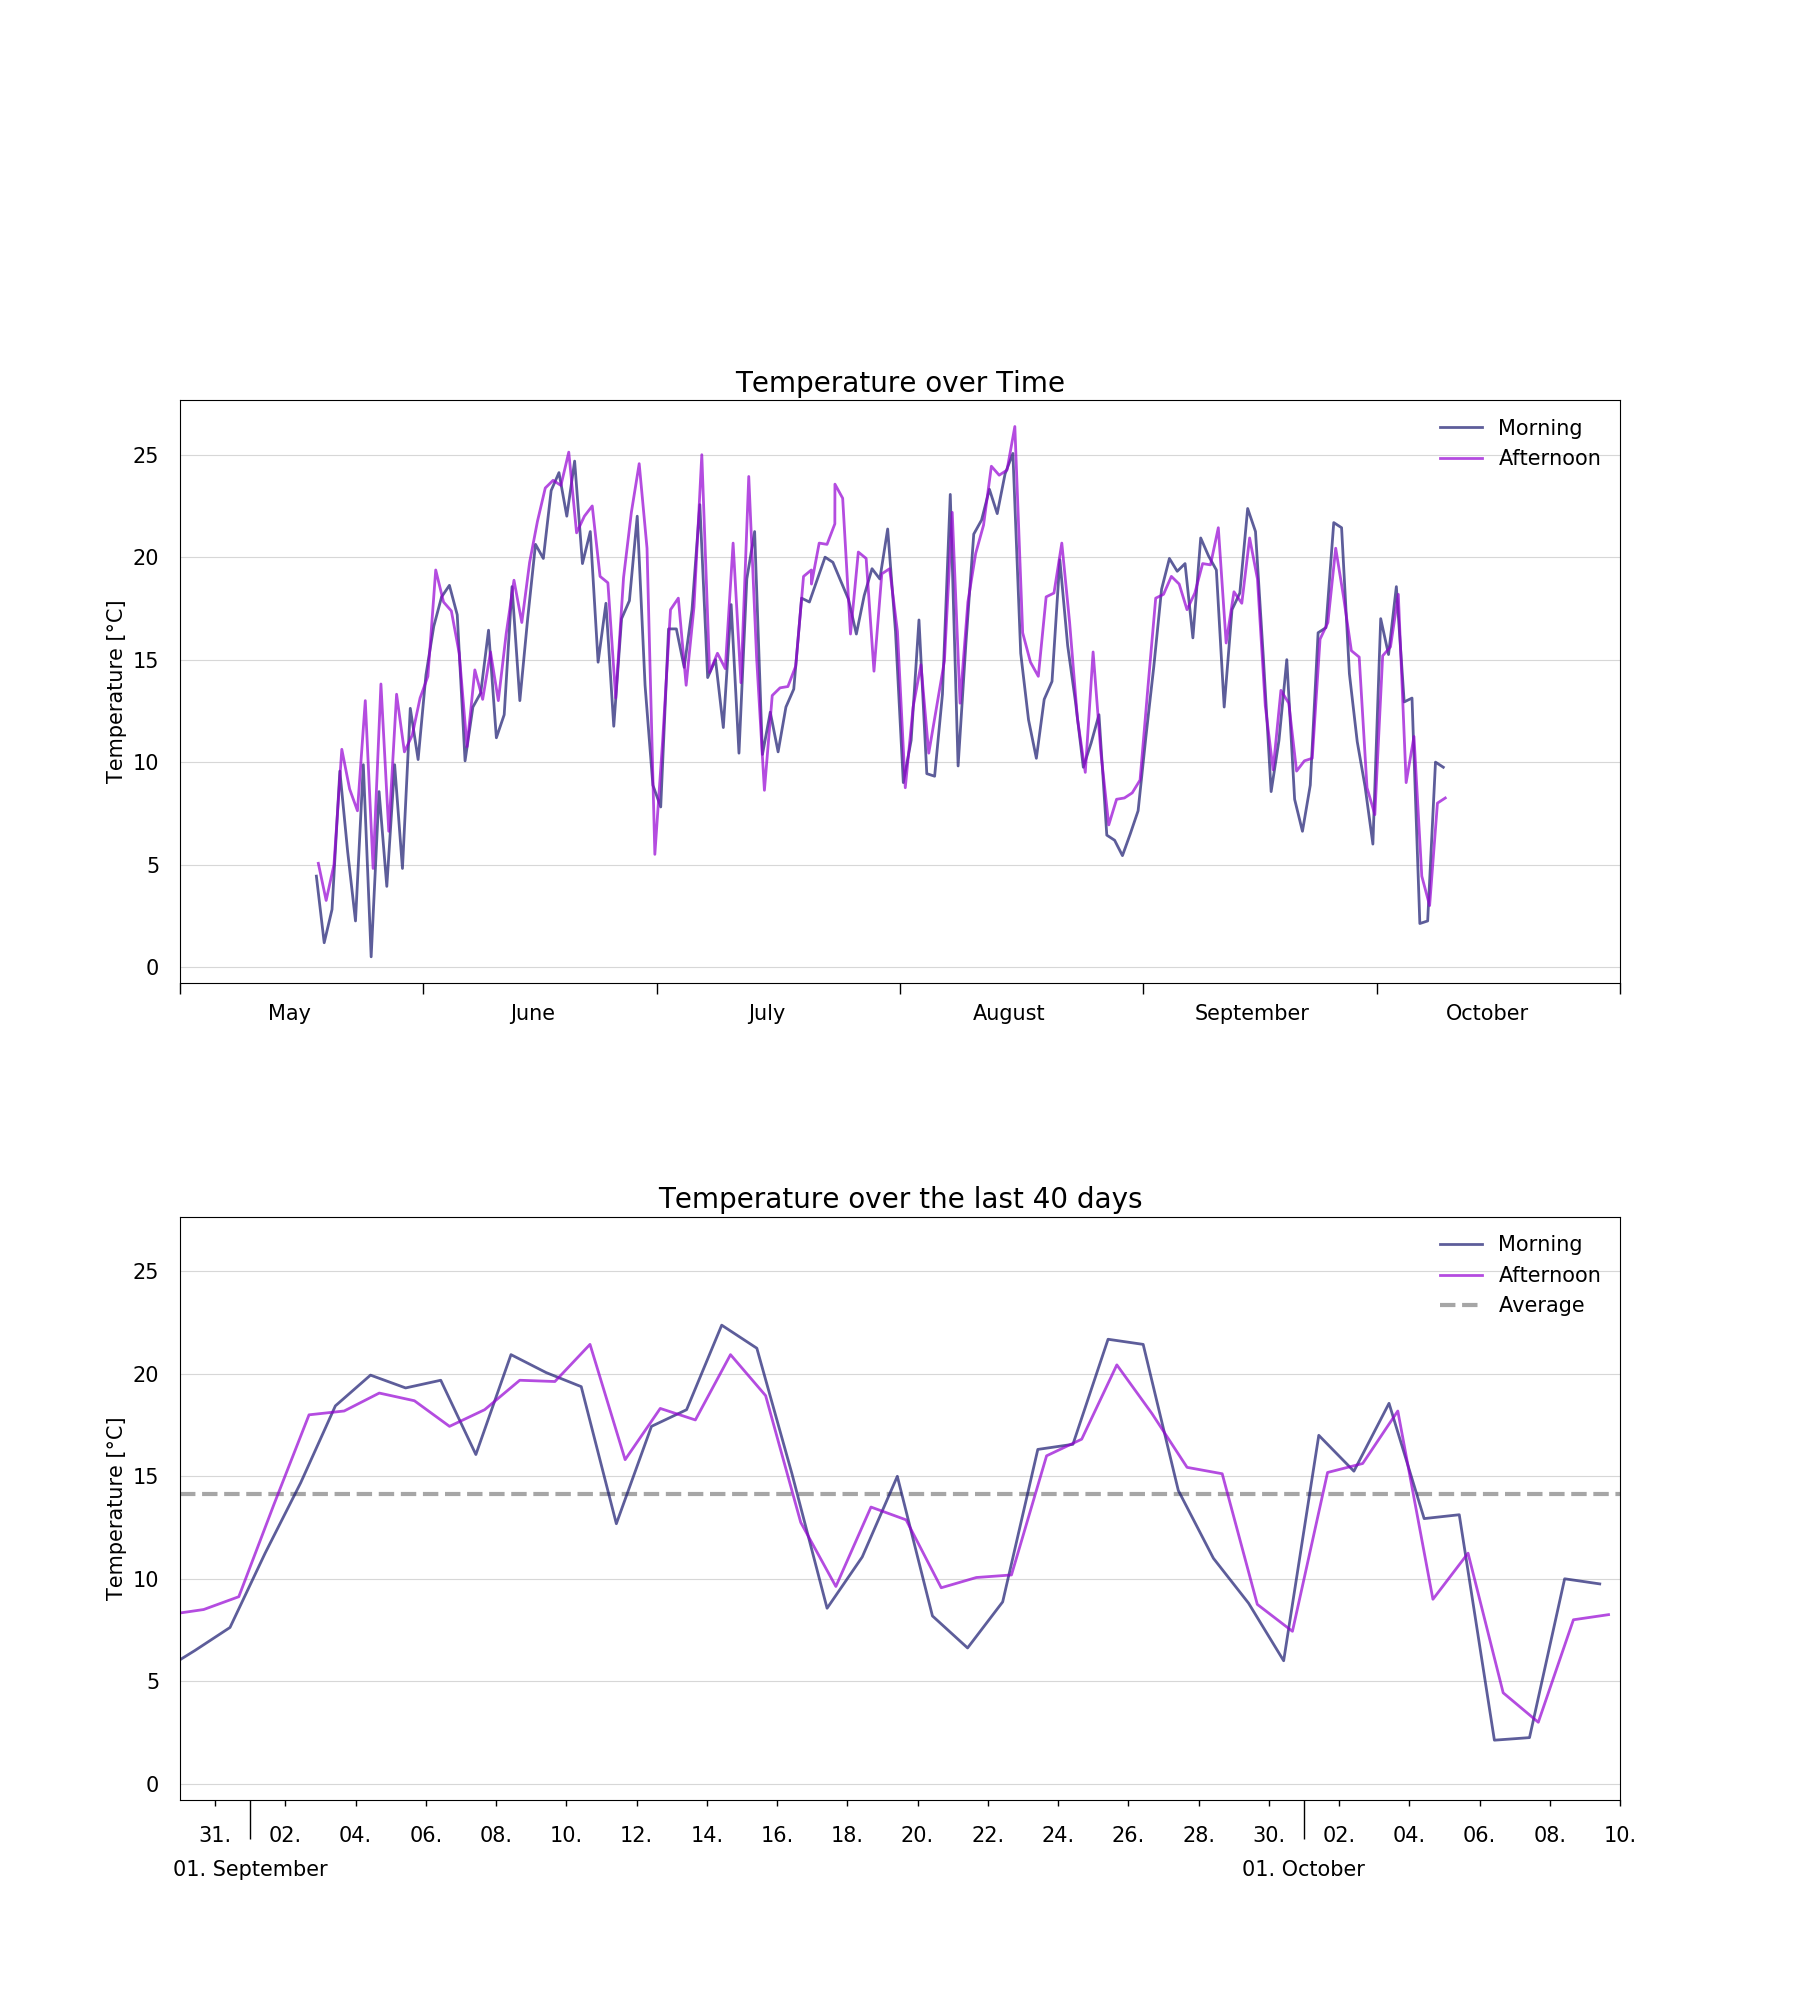
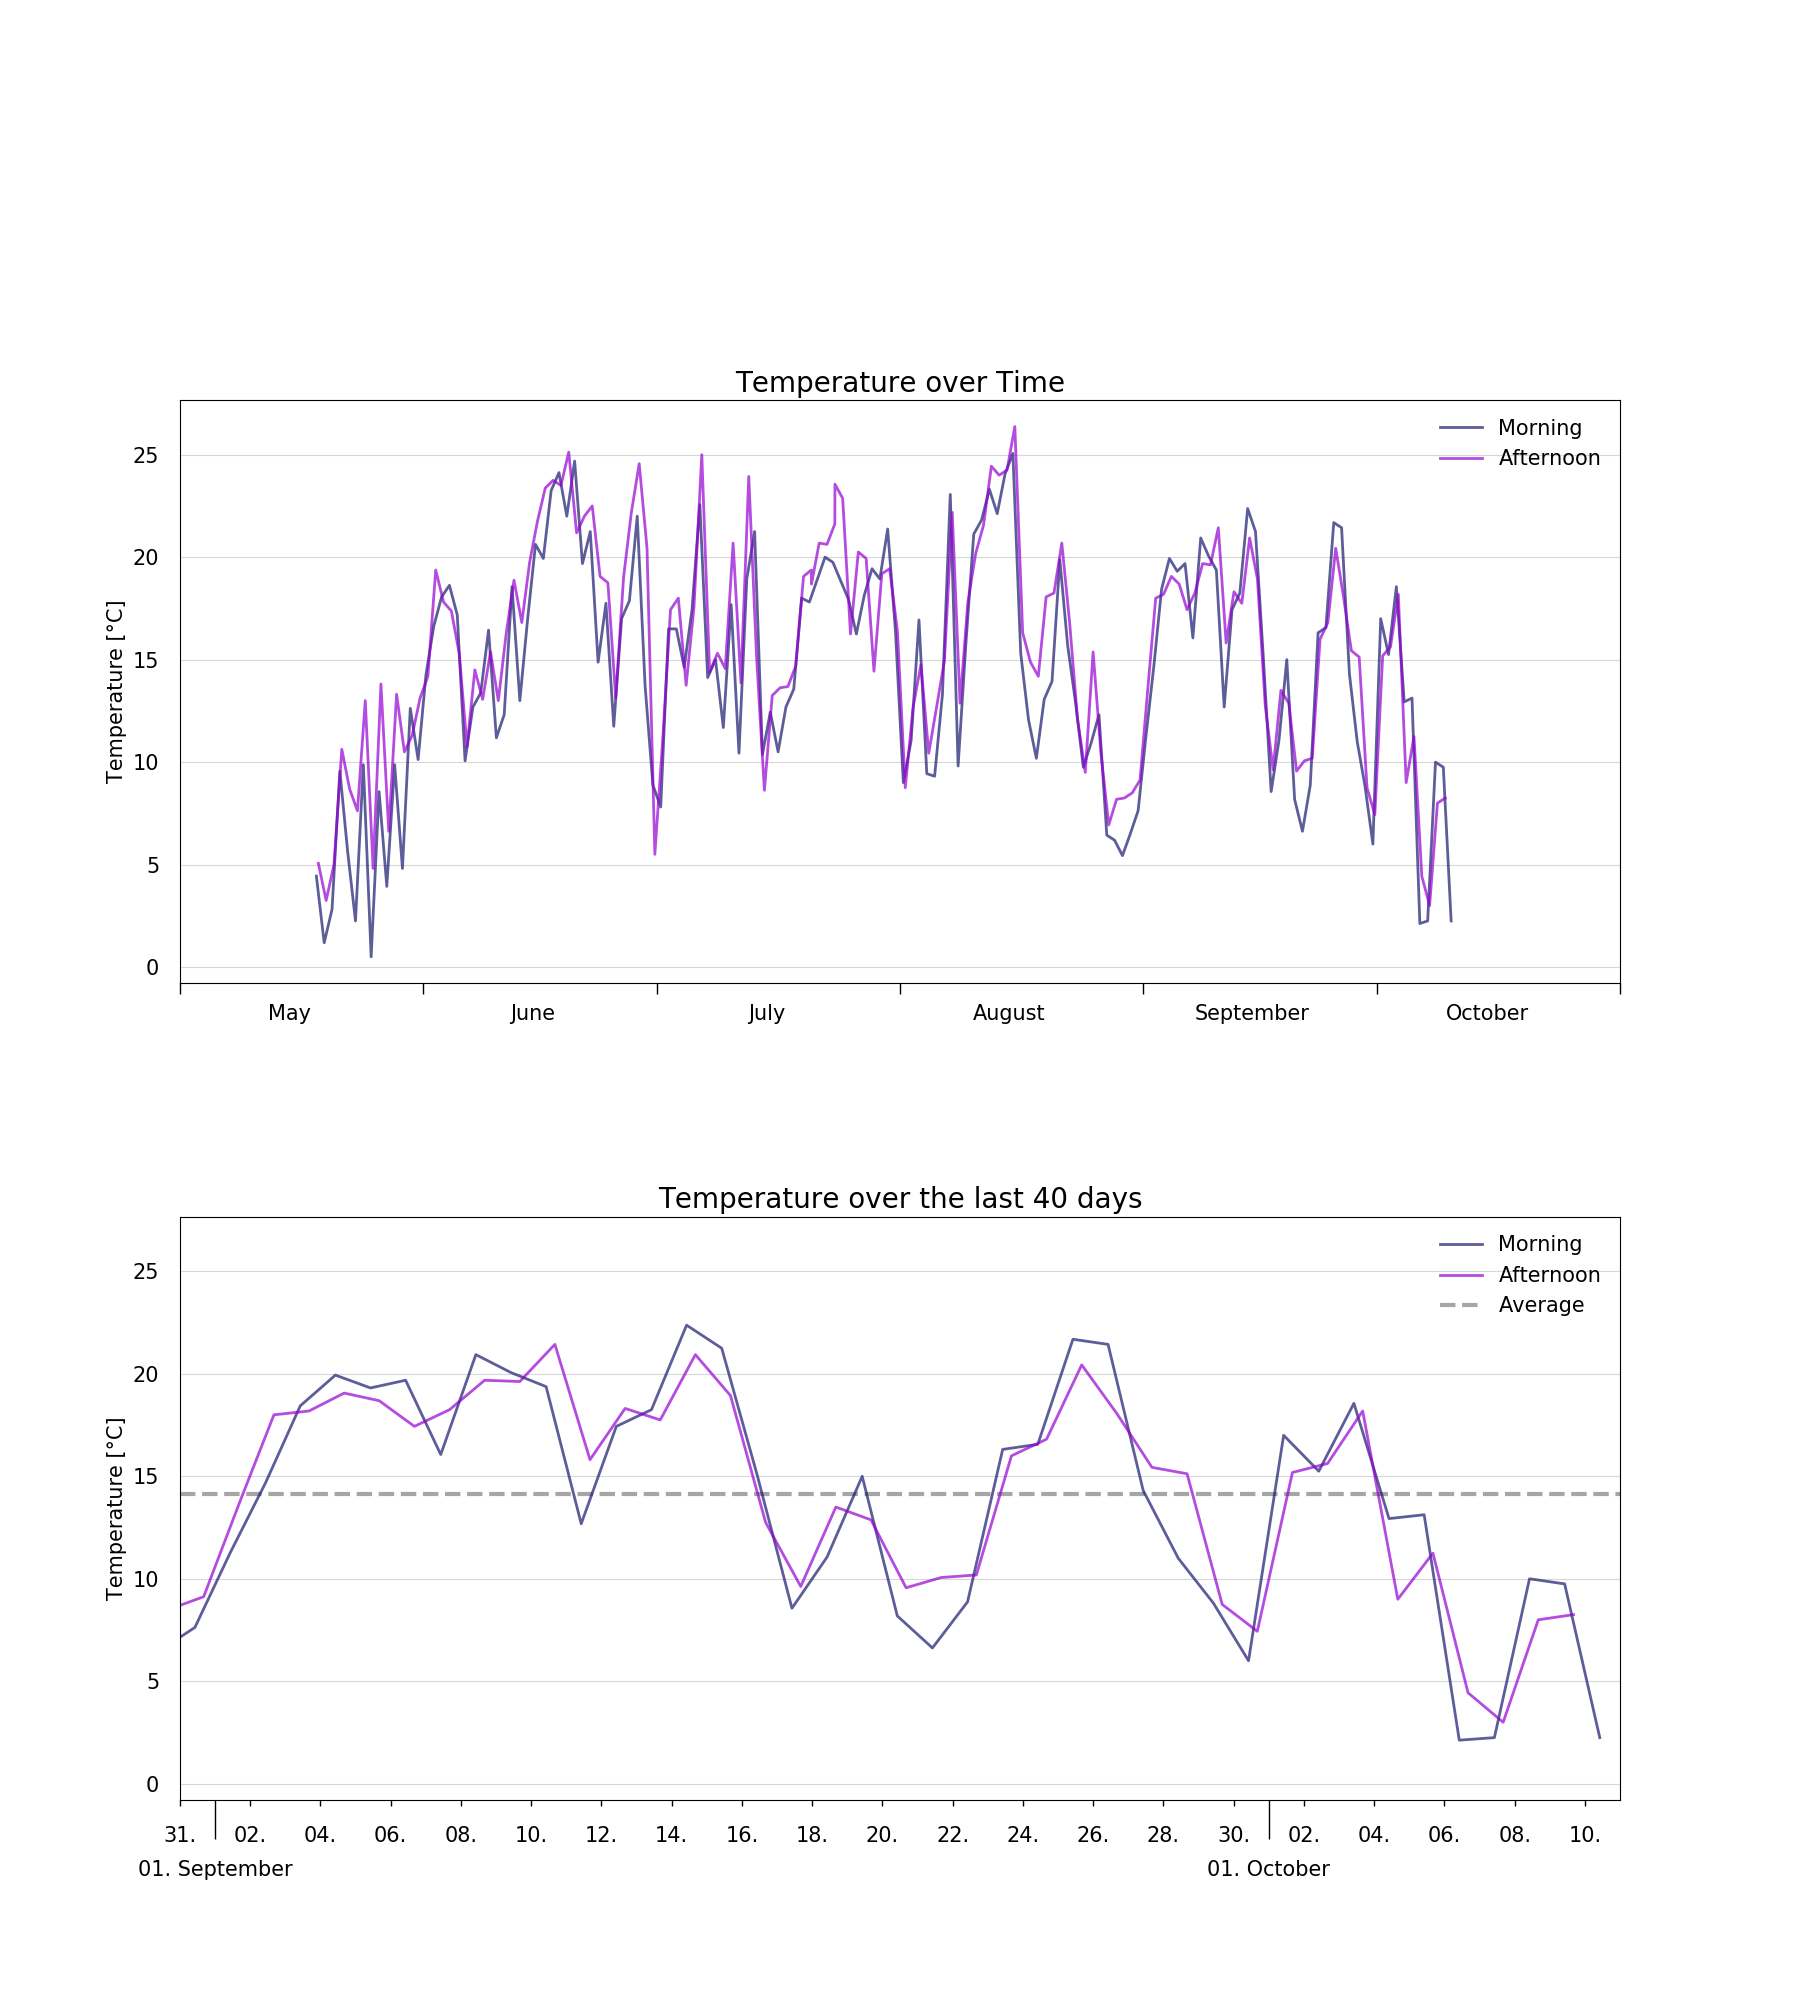
I'm a bot beep boop

diff --git a/resources/huette.md b/resources/huette.md
@@ -6,13 +6,13 @@ image: '/assets/img/'
 description: 'Live image from the Austrian alps'
 twitter_text: ' '
 ---
-## Latest image from 09 October 2021 at 16:10
+## Latest image from 10 October 2021 at 10:10
 <div class="huette">
   <div class="huette-image">
     <img src="{{ "/assets/img/huette.jpg" | prepend: site.baseurl }}">
   </div>
   <div class="huette-text">
-        <h2>Current Temperature: 8.25°C</h2>
+        <h2>Current Temperature: 2.25°C</h2>
         <p>A solar powered raspberry pi left alone in the wild is sending daily images and temperature data to this website. It should give you an impression about the current weather in the "Brixental".</p>
 
   </div>

diff --git a/rpi-script/huette.md b/rpi-script/huette.md
@@ -6,13 +6,13 @@ image: '/assets/img/'
 description: 'Live image from the Austrian alps'
 twitter_text: ' '
 ---
-## Latest image from 09 October 2021 at 16:10
+## Latest image from 10 October 2021 at 10:10
 <div class="huette">
   <div class="huette-image">
     <img src="{{ "/assets/img/huette.jpg" | prepend: site.baseurl }}">
   </div>
   <div class="huette-text">
-        <h2>Current Temperature: 8.25°C</h2>
+        <h2>Current Temperature: 2.25°C</h2>
         <p>A solar powered raspberry pi left alone in the wild is sending daily images and temperature data to this website. It should give you an impression about the current weather in the "Brixental".</p>
 
   </div>
